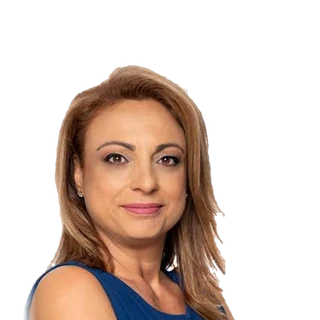
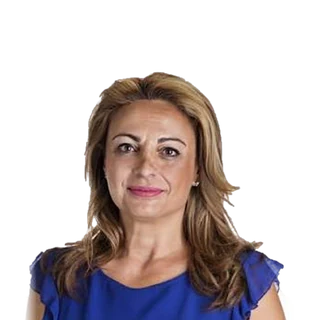
Spanyol oldal: új Cristina Valido-fotó
Claude-Session: https://claude.ai/code/session_01J8PjfkUCs1TyppvFaUMZMM

diff --git a/sw.js b/sw.js
@@ -1,7 +1,7 @@
 /* Választások – offline gyorsítótár.
    Oldalak és élő adatok: mindig a hálózatról, gyorsítótár csak tartaléknak (offline).
    Statikus fájlok: azonnal a gyorsítótárból, közben a háttérben frissül. */
-const V="v62k",CORE="core-"+V,RT="rt-"+V;
+const V="v62l",CORE="core-"+V,RT="rt-"+V;
 const PRE=["./","index.html","eredmenyek","spanyol-valasztas","spanyol-szimulator","spanyol-valasztas.html","spanyol-szimulator.html","zold-foki-szigetek-valasztas","zold-foki-szigetek-valasztas.html","eredmenyek.html","magyarorszag.html","szimulator.html","orszag.html","spanyolorszag.html","nemetorszag.html","ausztria.html","szlovakia.html","romania.html","egyesult-allamok.html","valasztasi-rendszer.html","naptar.html","404.html",
   "assets/portal.css?v=16","assets/orszagok.js?v=11","assets/fastzoom.js?v=1","assets/anim.js?v=3","assets/terkep-anim.js?v=4","assets/app.js?v=9","assets/app/icon-192.png?v=3","manifest.webmanifest"];
 self.addEventListener("install",e=>{e.waitUntil(caches.open(CORE).then(c=>Promise.all(PRE.map(u=>c.add(u).catch(()=>{})))).then(()=>self.skipWaiting()));});
